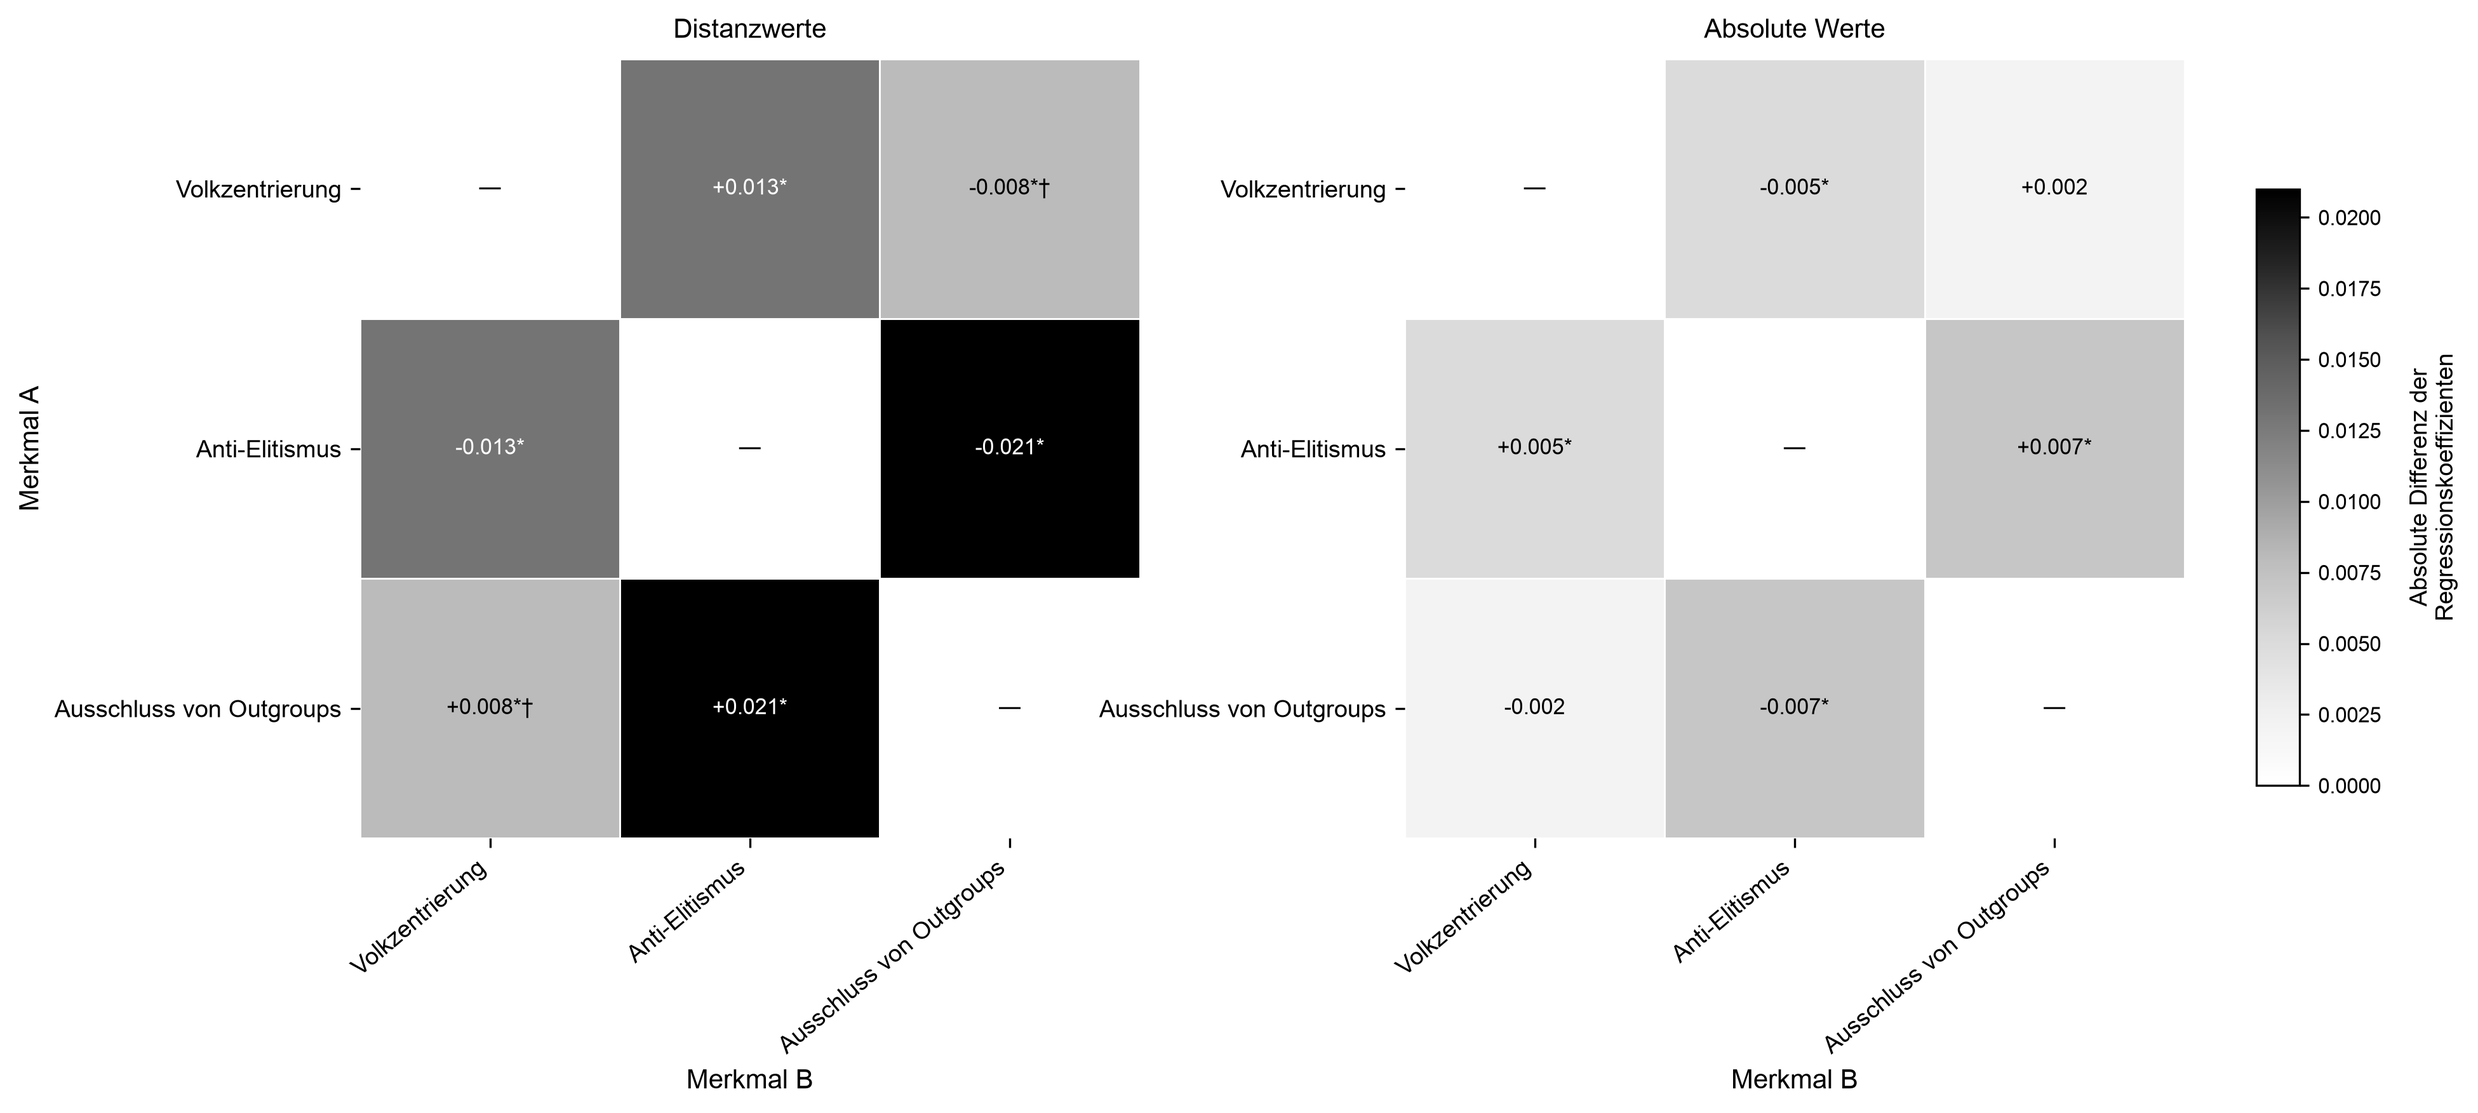
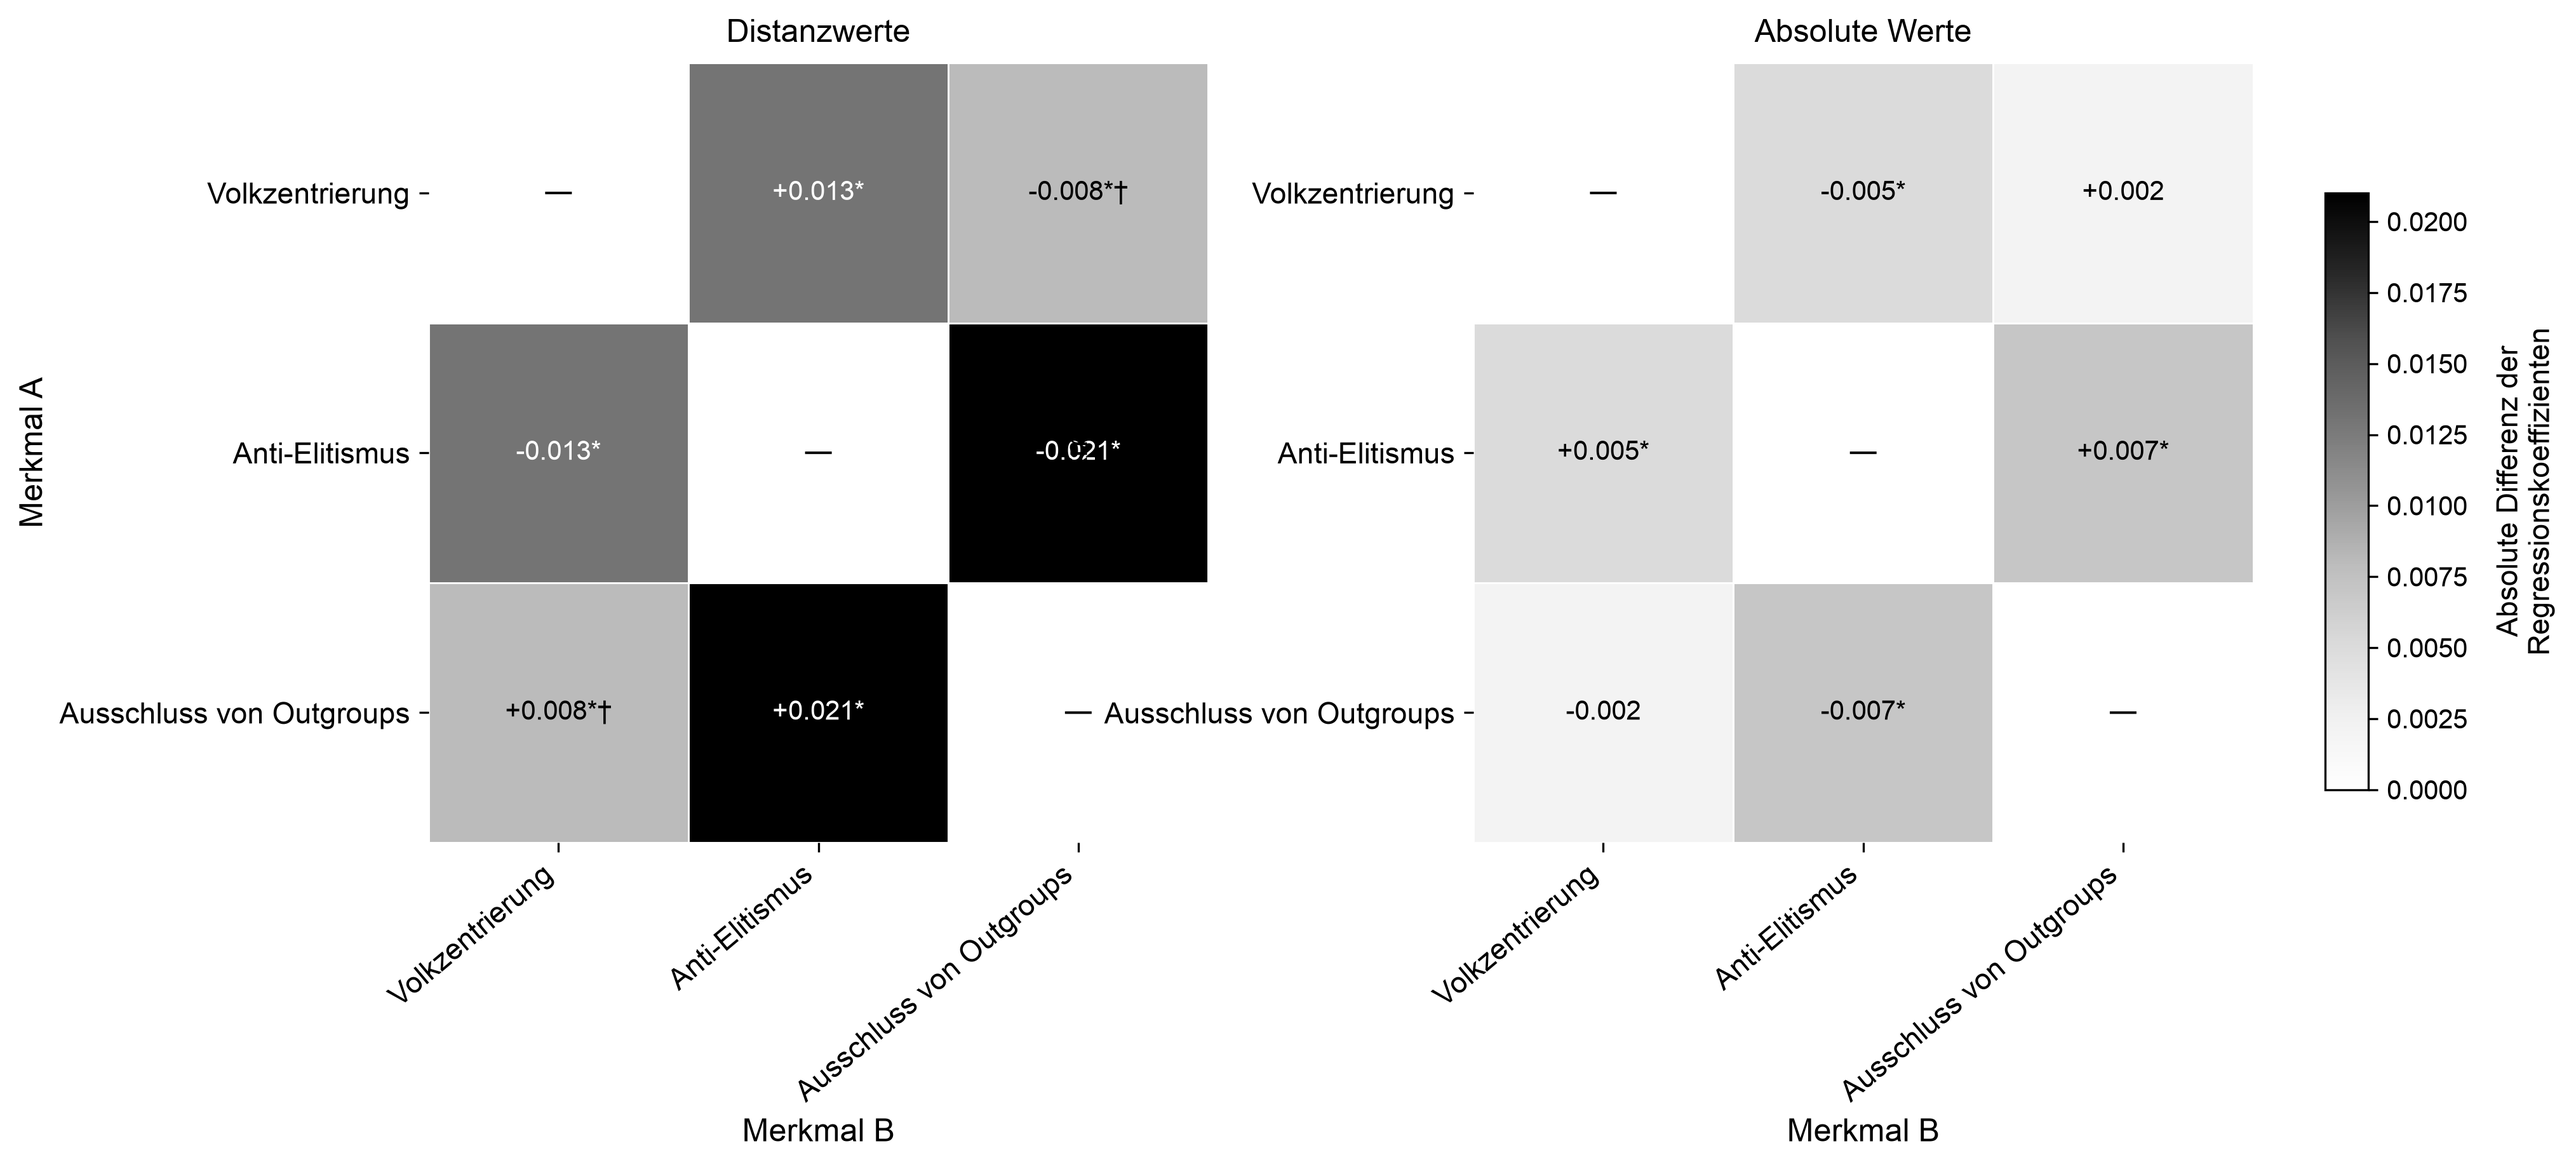
Updates_Figures

diff --git a/src/29_figures.py b/src/29_figures.py
@@ -249,9 +249,10 @@ def draw_interaction_panel(
             markeredgecolor="black",
         )
 
-    ax.set_title(panel_title, fontsize=10, pad=8)
+    ax.set_title(panel_title, fontsize=12, pad=8)
     ax.set_xlabel("AfD-Unterstützung in Prozentpunkten")
-    ax.set_ylabel(y_label)
+    ax.set_ylabel(y_label, fontsize=12)
+    ax.tick_params(axis="both", labelsize=11)
     ax.grid(axis="y", linewidth=0.5, color="0.88")
     remove_chart_junk(ax)
 
@@ -298,6 +299,7 @@ def create_paired_interaction_plot(
         ncol=min(5, len(labels)),
         handlelength=2.8,
         columnspacing=1.3,
+        fontsize=11,
     )
 
     fig.tight_layout(rect=(0, 0.12, 1, 1), w_pad=2.5)
@@ -490,11 +492,12 @@ def draw_pairwise_matrix_panel(
         dimensions,
         rotation=40,
         ha="right",
+        fontsize=11,
     )
-    ax.set_yticklabels(dimensions)
-    ax.set_xlabel(x_axis_label)
-    ax.set_ylabel(y_axis_label)
-    ax.set_title(panel_title, fontsize=10, pad=8)
+    ax.set_yticklabels(dimensions, fontsize=11)
+    ax.set_xlabel(x_axis_label, fontsize=12)
+    ax.set_ylabel(y_axis_label, fontsize=12)
+    ax.set_title(panel_title, fontsize=12, pad=8)
 
     for i in range(n):
         for j in range(n):
@@ -517,7 +520,7 @@ def draw_pairwise_matrix_panel(
                 text,
                 ha="center",
                 va="center",
-                fontsize=8.2,
+                fontsize=10.2,
                 color=text_color,
             )
 
@@ -644,10 +647,10 @@ def create_paired_pairwise_matrix(
     )
     colorbar.set_label(
         "Absolute Differenz der\nRegressionskoeffizienten",
-        fontsize=9,
+        fontsize=11,
         labelpad=10,
     )
-    colorbar.ax.tick_params(labelsize=8)
+    colorbar.ax.tick_params(labelsize=10)
 
     save_figure(fig, filename_stem)
     plt.close(fig)
@@ -755,8 +758,9 @@ def create_score_and_afd_poll_plot(
             zorder=2,
         )
 
-    score_ax.set_xlabel("Datum der Umfrage")
-    score_ax.set_ylabel(y_label)
+    score_ax.set_xlabel("Datum der Umfrage", fontsize=12)
+    score_ax.set_ylabel(y_label, fontsize=12)
+    score_ax.tick_params(axis="both", labelsize=11)
     score_ax.grid(axis="y", linewidth=0.5, color="0.88", zorder=0)
     score_ax.grid(axis="x", visible=False)
     remove_chart_junk(score_ax)
@@ -773,7 +777,8 @@ def create_score_and_afd_poll_plot(
     linewidth=2.0,
     zorder=4,
 )
-    poll_ax.set_ylabel("AfD-Umfragewert in Prozentpunkten")
+    poll_ax.set_ylabel("AfD-Umfragewert in Prozentpunkten", fontsize=12)
+    poll_ax.tick_params(axis="y", labelsize=11)
     poll_ax.spines["top"].set_visible(False)
     poll_ax.spines["right"].set_linewidth(0.8)
 
@@ -788,6 +793,7 @@ def create_score_and_afd_poll_plot(
         ncol=4,
         handlelength=2.8,
         columnspacing=1.3,
+        fontsize=11
     )
 
     fig.tight_layout()
